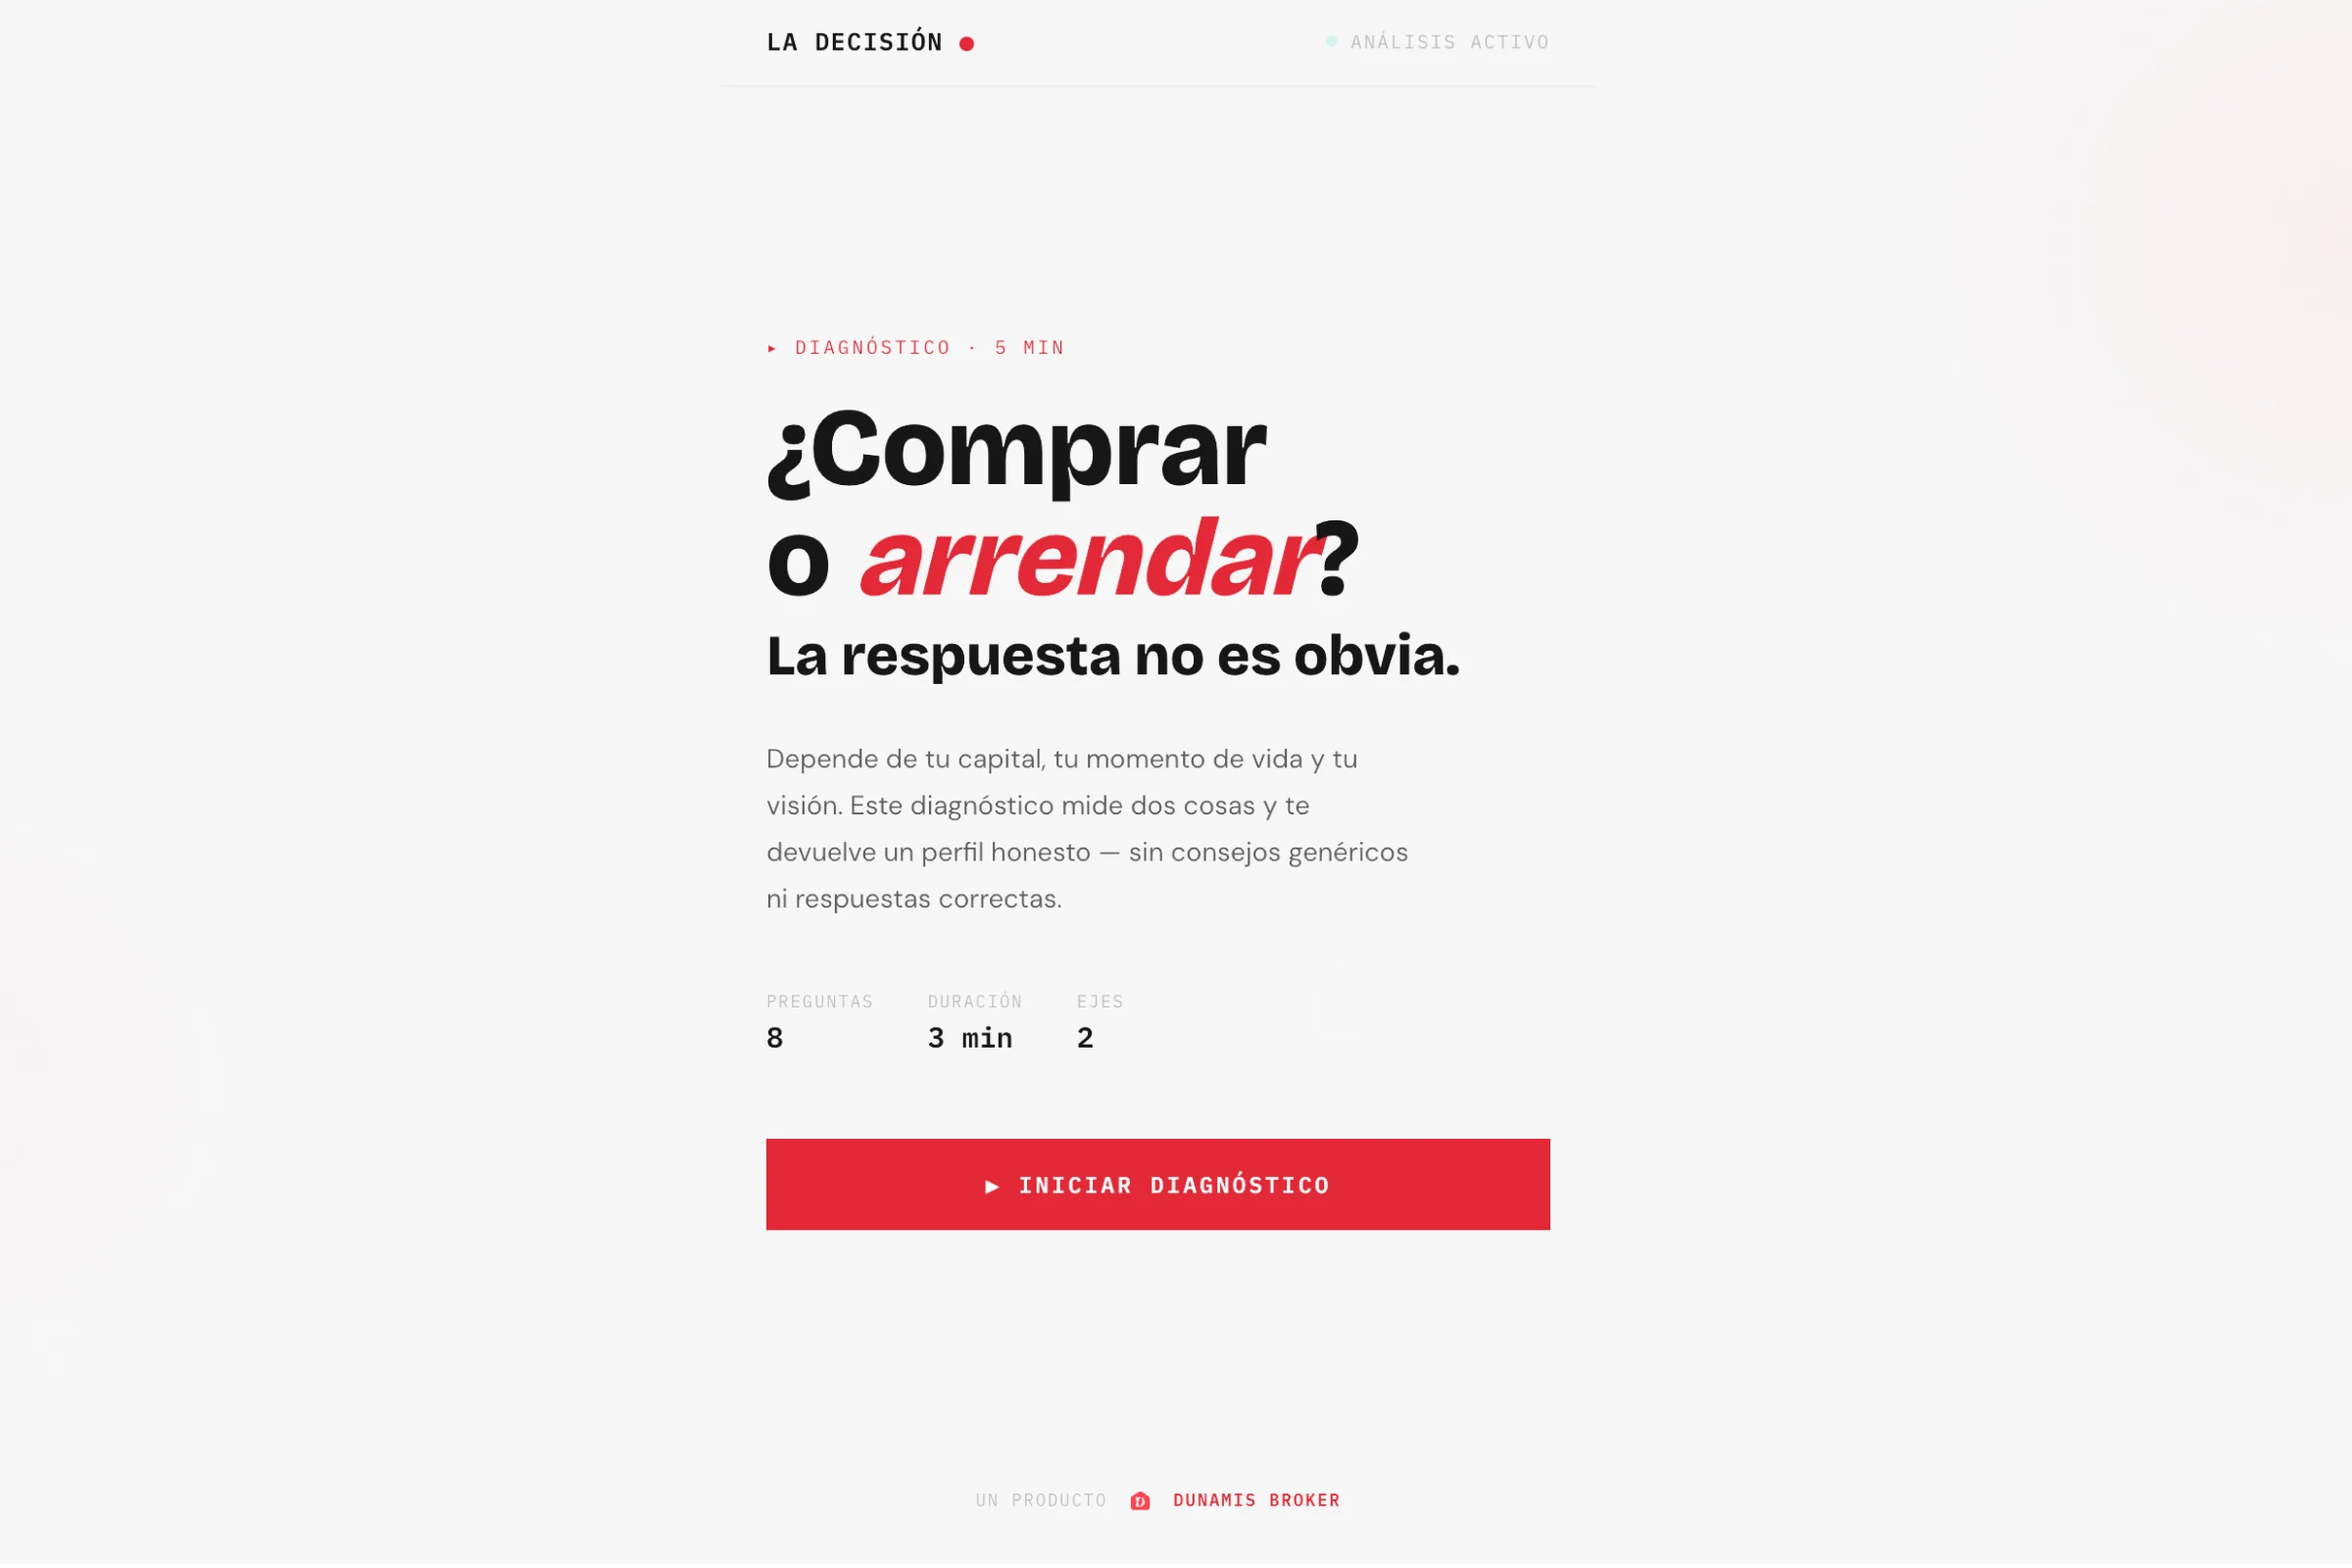
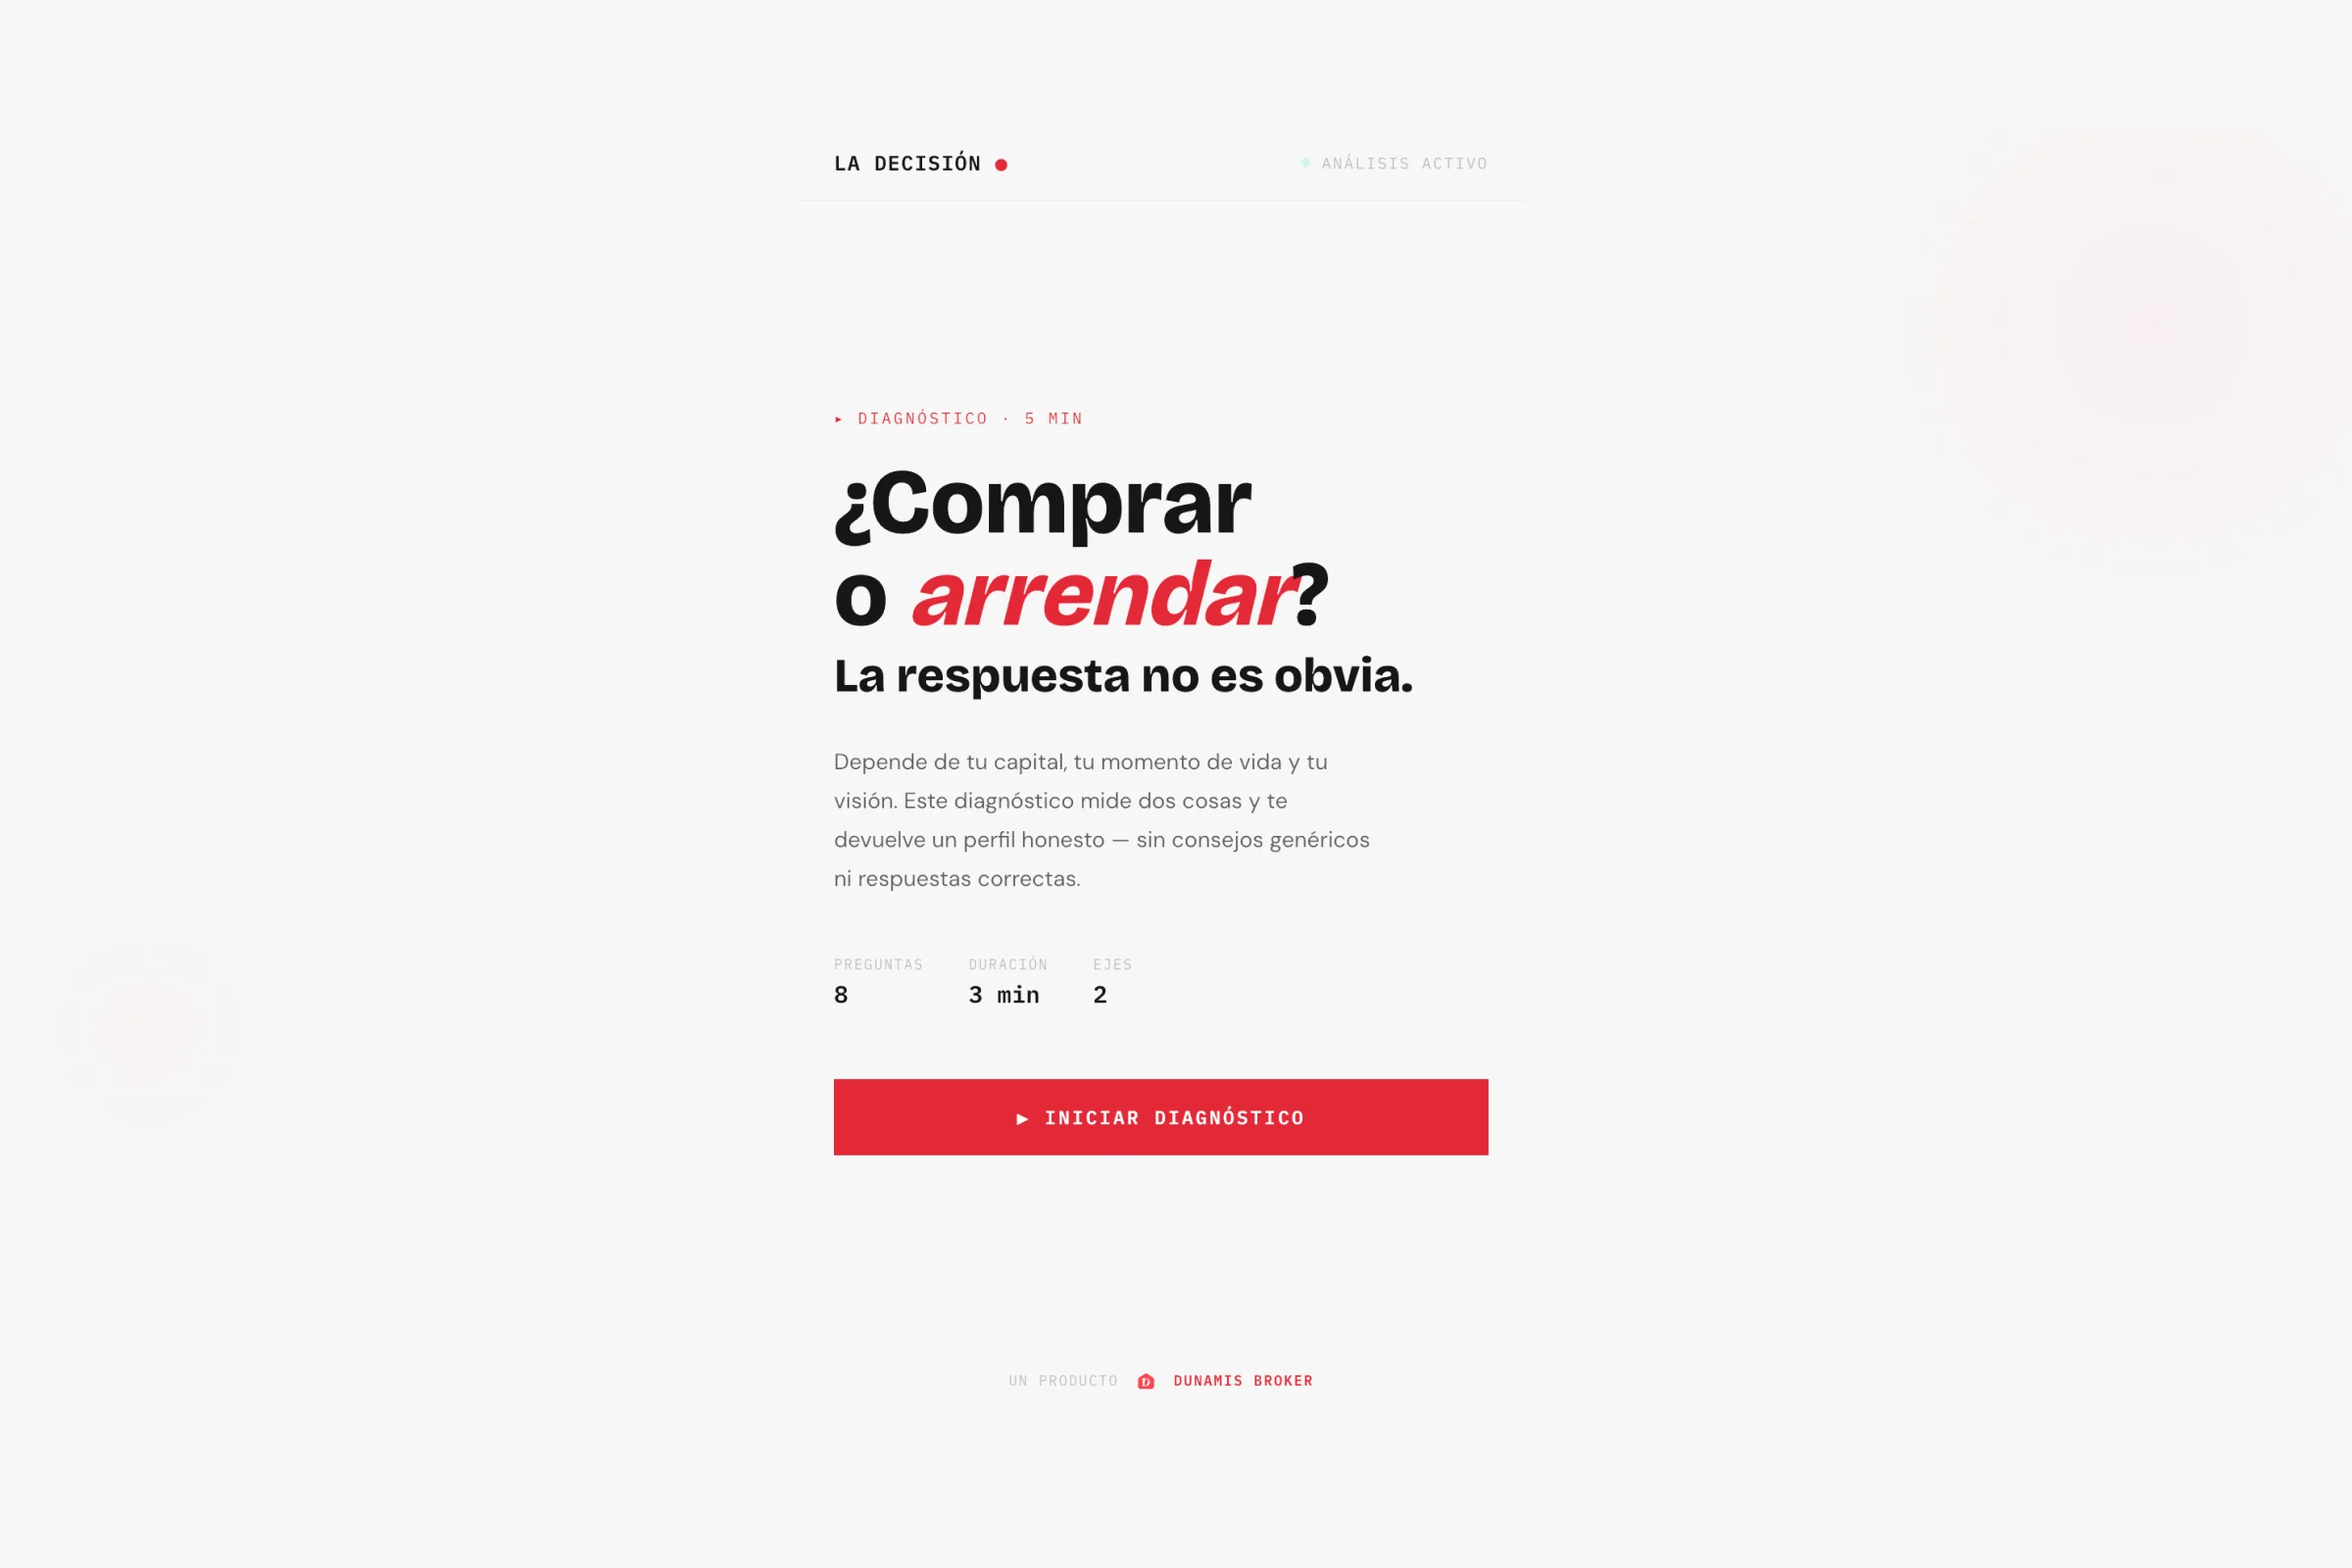
Caso Dunamis: imagen del blog y nueva versión de La Decisión

diff --git a/app/(site)/casos/dunamis/page.tsx b/app/(site)/casos/dunamis/page.tsx
@@ -172,7 +172,7 @@ export default function CasoDunamis() {
                 Dunamistas es la plataforma editorial de Dunamis Brokers: artículos, contenido breve para Instagram y un glosario inmobiliario que suma un concepto nuevo cada semana.
               </p>
             </Texto>
-            <Imagen ratio="3 / 2" tamano="2400 × 1600" nombre="Blog y glosario" />
+            <Imagen ratio="3 / 2" tamano="2400 × 1600" nombre="Dunamistas, plataforma editorial de Dunamis Brokers" src="/casos/dunamis/blog.webp" />
             <div className="grid grid-cols-2 gap-6">
               <Imagen ratio="3 / 4" tamano="1200 × 1600" nombre="Instagram" />
               <Imagen ratio="3 / 4" tamano="1200 × 1600" nombre="Instagram" />
